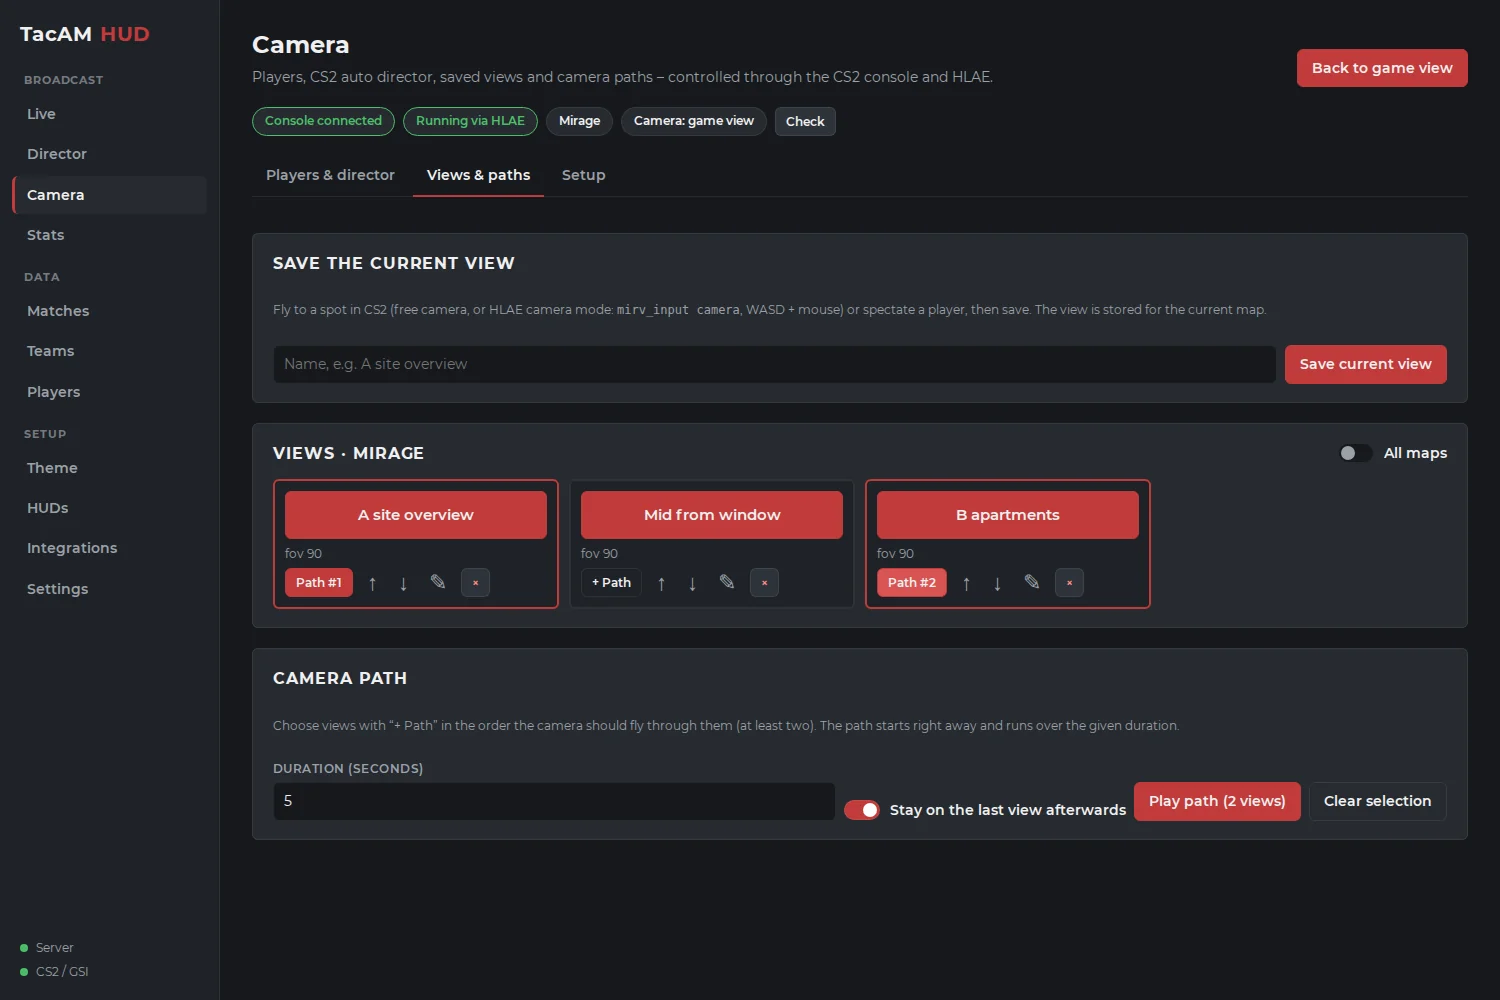
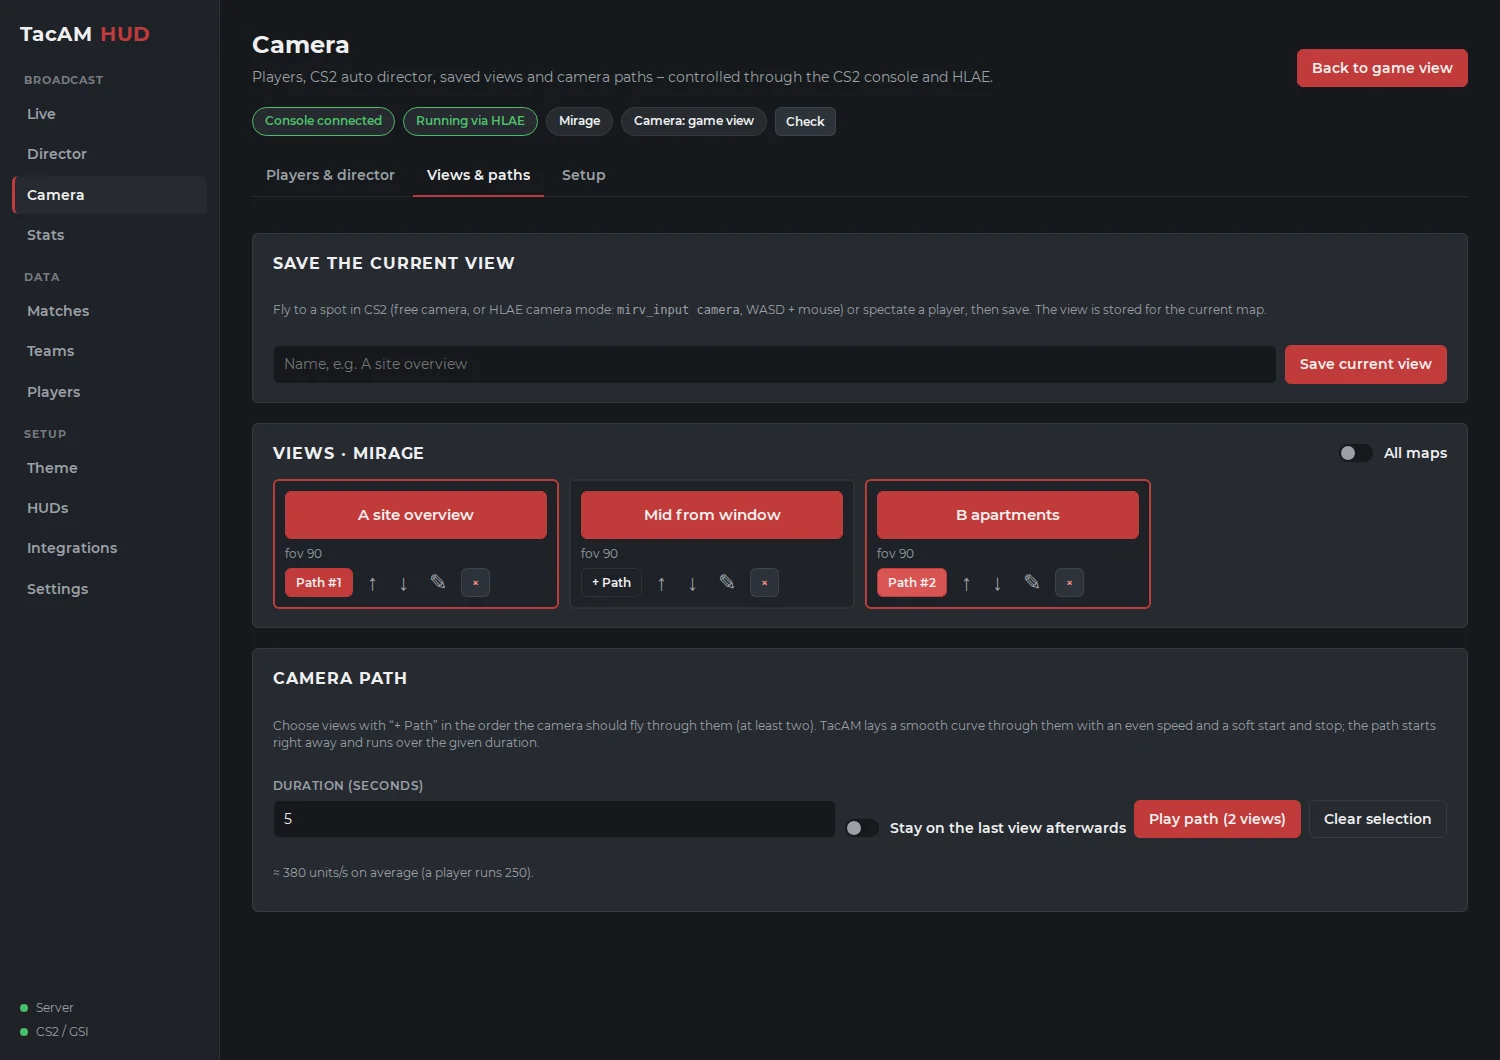
feat(camera): smooth camera paths; HUD reloads only when nobody sees it
- Camera paths: TacAM samples the flight itself - centripetal
  Catmull-Rom spline through the views, time by distance + turning (even
  speed instead of the same time per view), sine ease-in/out, 20
  keyframes per second. Before, a short and a long segment had the same
  time, so the speed jumped at every view, and start/stop were abrupt.
- Path card shows the average speed and suggests a calm duration above
  450 units/s.
- HUD auto-reload after an update waits until the HUD is hidden or no
  game data arrived for 5 s (owner: viewers must not see a reload).

diff --git a/apps/server/src/camera.ts b/apps/server/src/camera.ts
@@ -62,43 +62,90 @@ export function goToCommands(view: View) {
 /** Back to the normal spectator view. */
 export const releaseCommands = ['mirv_campath enabled 0', 'mirv_input end'];
 
-const lerp = (a: number, b: number, t: number) => a + (b - a) * t;
-/** Angle interpolation along the shorter way round. */
-const lerpAngle = (a: number, b: number, t: number) => a + ((((b - a) % 360) + 540) % 360 - 180) * t;
+type Vec = number[]; // x, y, z, pitch, yaw, roll, fov
+const toVec = (v: View): Vec => [v.x, v.y, v.z, v.pitch, v.yaw, v.roll, v.fov];
+const toView = ([x, y, z, pitch, yaw, roll, fov]: Vec): View => ({ x, y, z, pitch, yaw, roll, fov });
+const mix = (a: Vec, b: Vec, wa: number, wb: number) => a.map((value, i) => value * wa + b[i] * wb);
+const distance = (a: Vec, b: Vec) => Math.hypot(a[0] - b[0], a[1] - b[1], a[2] - b[2]);
+/** A degree of turning counts like this many units of travel, so pans get time too. */
+const UNITS_PER_DEGREE = 5;
+const effort = (a: Vec, b: Vec) => distance(a, b) + UNITS_PER_DEGREE * (Math.abs(a[3] - b[3]) + Math.abs(a[4] - b[4]) + Math.abs(a[5] - b[5]));
+/** Keyframes per second: dense enough that HLAE's own spline only bridges tiny steps. */
+const KEYS_PER_SECOND = 20;
 
-function between(a: View, b: View, t: number): View {
-  return {
-    x: lerp(a.x, b.x, t),
-    y: lerp(a.y, b.y, t),
-    z: lerp(a.z, b.z, t),
-    pitch: lerpAngle(a.pitch, b.pitch, t),
-    yaw: lerpAngle(a.yaw, b.yaw, t),
-    roll: lerpAngle(a.roll, b.roll, t),
-    fov: lerp(a.fov, b.fov, t),
-  };
+/** Angles as a continuous sequence (each step the shorter way round), so the spline never spins. */
+function unwrapAngles(views: View[]): Vec[] {
+  const vecs = views.map(toVec);
+  for (let i = 1; i < vecs.length; i++) {
+    for (const k of [3, 4, 5]) vecs[i][k] = vecs[i - 1][k] + ((((vecs[i][k] - vecs[i - 1][k]) % 360) + 540) % 360) - 180;
+  }
+  return vecs;
+}
+
+/**
+ * Centripetal Catmull-Rom (Barry-Goldman) between p1 and p2 at u ∈ [0, 1]: passes through
+ * every view without overshooting or looping when the distances between views differ a lot.
+ */
+function catmullRom(p0: Vec, p1: Vec, p2: Vec, p3: Vec, u: number): Vec {
+  const knot = (a: Vec, b: Vec) => Math.max(Math.sqrt(distance(a, b)), 1e-3);
+  const t0 = 0;
+  const t1 = t0 + knot(p0, p1);
+  const t2 = t1 + knot(p1, p2);
+  const t3 = t2 + knot(p2, p3);
+  const t = t1 + u * (t2 - t1);
+  const lerpAt = (a: Vec, b: Vec, ta: number, tb: number) => mix(a, b, (tb - t) / (tb - ta), (t - ta) / (tb - ta));
+  const a1 = lerpAt(p0, p1, t0, t1);
+  const a2 = lerpAt(p1, p2, t1, t2);
+  const a3 = lerpAt(p2, p3, t2, t3);
+  return lerpAt(lerpAt(a1, a2, t0, t2), lerpAt(a2, a3, t1, t3), t1, t2);
 }
 
 /**
  * Campath XML through the given views in `duration` seconds, starting at time 0
- * (made "now" with `mirv_campath offset current`). HLAE needs at least four
- * keyframes, so short paths get points on the straight line in between.
+ * (made "now" with `mirv_campath offset current`). TacAM samples the curve itself:
+ * a smooth spline through all views, time spread by distance and turning (even
+ * speed instead of the same time per view) and a soft start and stop.
  */
 export function campathXml(views: View[], duration: number, hold: boolean) {
   if (views.length < 2) throw new CameraError('A camera path needs at least two views');
-  // Two views: thirds keep the speed even; otherwise split the longest segment until there are four keys.
-  const base = views.length === 2 ? [views[0], between(views[0], views[1], 1 / 3), between(views[0], views[1], 2 / 3), views[1]] : views;
-  const keys = base.map((view, i) => ({ t: (duration * i) / (base.length - 1), view }));
-  while (keys.length < 4) {
-    let longest = 0;
-    for (let i = 1; i < keys.length - 1; i++) if (keys[i + 1].t - keys[i].t > keys[longest + 1].t - keys[longest].t) longest = i;
-    const a = keys[longest];
-    const b = keys[longest + 1];
-    keys.splice(longest + 1, 0, { t: (a.t + b.t) / 2, view: between(a.view, b.view, 0.5) });
+  const vecs = unwrapAngles(views);
+  // Mirrored end points give the first and last segment a natural tangent.
+  const padded = [mix(vecs[0], vecs[1], 2, -1), ...vecs, mix(vecs.at(-1)!, vecs.at(-2)!, 2, -1)];
+  const at = (segment: number, u: number) => catmullRom(padded[segment], padded[segment + 1], padded[segment + 2], padded[segment + 3], u);
+
+  // Arc-length table over all segments.
+  const STEPS = 64;
+  const table: { s: number; segment: number; u: number }[] = [{ s: 0, segment: 0, u: 0 }];
+  let total = 0;
+  for (let segment = 0; segment < vecs.length - 1; segment++) {
+    let previous = at(segment, 0);
+    for (let step = 1; step <= STEPS; step++) {
+      const u = step / STEPS;
+      const point = at(segment, u);
+      // Identical views: still move through them evenly instead of dividing by zero.
+      total += Math.max(effort(previous, point), 1e-6);
+      table.push({ s: total, segment, u });
+      previous = point;
+    }
   }
-  const points = keys
-    .map(({ t, view: v }) => `    <p t="${fmt(t)}" x="${fmt(v.x)}" y="${fmt(v.y)}" z="${fmt(v.z)}" fov="${fmt(v.fov)}" rx="${fmt(v.roll)}" ry="${fmt(v.pitch)}" rz="${fmt(v.yaw)}"/>`)
-    .join('\n');
-  return `<?xml version="1.0" encoding="utf-8"?>\n<campath${hold ? ' hold=""' : ''}>\n  <points>\n${points}\n  </points>\n</campath>\n`;
+  const locate = (s: number) => {
+    let i = table.findIndex((entry) => entry.s >= s);
+    if (i <= 0) return { segment: 0, u: 0 };
+    const [a, b] = [table[i - 1], table[i]];
+    const f = (s - a.s) / (b.s - a.s);
+    return b.segment === a.segment ? { segment: a.segment, u: a.u + (b.u - a.u) * f } : { segment: b.segment, u: b.u * f };
+  };
+
+  const count = Math.max(8, Math.ceil(duration * KEYS_PER_SECOND));
+  const points: string[] = [];
+  for (let k = 0; k <= count; k++) {
+    const progress = k / count;
+    const eased = (1 - Math.cos(Math.PI * progress)) / 2; // soft start and stop
+    const { segment, u } = k === count ? { segment: vecs.length - 2, u: 1 } : locate(eased * total);
+    const v = toView(at(segment, u));
+    points.push(`    <p t="${fmt(progress * duration)}" x="${fmt(v.x)}" y="${fmt(v.y)}" z="${fmt(v.z)}" fov="${fmt(v.fov)}" rx="${fmt(v.roll)}" ry="${fmt(v.pitch)}" rz="${fmt(v.yaw)}"/>`);
+  }
+  return `<?xml version="1.0" encoding="utf-8"?>\n<campath${hold ? ' hold=""' : ''}>\n  <points>\n${points.join('\n')}\n  </points>\n</campath>\n`;
 }
 
 /** Writes the path file and returns the console commands that play it from now. */

diff --git a/apps/server/src/camera.test.ts b/apps/server/src/camera.test.ts
@@ -60,17 +60,42 @@ describe('camera (HLAE)', () => {
     ]);
   });
 
-  it('builds a campath with at least four keyframes and HLAE angle attributes', () => {
+  const pathPoints = (xml: string) =>
+    [...xml.matchAll(/<p t="([-\d.]+)" x="([-\d.]+)" y="([-\d.]+)" z="([-\d.]+)" fov="([-\d.]+)" rx="([-\d.]+)" ry="([-\d.]+)" rz="([-\d.]+)"/g)].map((m) => {
+      const [t, x, y, z, fov, roll, pitch, yaw] = m.slice(1).map(Number);
+      return { t, x, y, z, fov, roll, pitch, yaw };
+    });
+
+  it('builds a dense, smooth campath with HLAE angle attributes', () => {
     const a = { x: 0, y: 0, z: 0, pitch: 0, yaw: 170, roll: 0, fov: 90 };
     const b = { x: 100, y: 0, z: 50, pitch: 20, yaw: -170, roll: 0, fov: 70 };
     const xml = campathXml([a, b], 6, true);
-    const points = [...xml.matchAll(/<p t="([\d.]+)" x="([-\d.]+)"[^>]*rz="([-\d.]+)"/g)];
-    expect(points.map((p) => Number(p[1]))).toEqual([0, 2, 4, 6]);
+    const points = pathPoints(xml);
+    expect(points).toHaveLength(6 * 20 + 1);
+    expect(points[0]).toMatchObject({ t: 0, x: 0, z: 0, yaw: 170, pitch: 0, fov: 90 });
+    expect(points.at(-1)).toMatchObject({ t: 6, x: 100, z: 50, pitch: 20, fov: 70 });
     expect(xml).toContain('hold=""');
-    // yaw 170 → -170 goes the short way over 180 (not back through 0)
-    expect(Number(points[1][3])).toBeCloseTo(176.667, 2);
-    expect(Number(points[2][3])).toBeCloseTo(183.333, 2);
     expect(xml).toContain('rx="0" ry="0" rz="170"');
+    // yaw 170 → -170 goes the short way over 180 (to 190), not back through 0
+    expect(points.at(-1)!.yaw).toBeCloseTo(190, 3);
+    expect(points[60].yaw).toBeGreaterThan(175);
+    // soft start: the first step is much shorter than a step in the middle
+    expect(points[1].x - points[0].x).toBeLessThan((points[61].x - points[60].x) / 10);
+  });
+
+  it('moves at an even speed through views at uneven distances', () => {
+    const view = (x: number) => ({ x, y: 0, z: 0, pitch: 0, yaw: 0, roll: 0, fov: 90 });
+    const points = pathPoints(campathXml([view(0), view(100), view(1100)], 10, false));
+    const speedAround = (x: number) => {
+      const i = points.findIndex((p) => p.x >= x);
+      const speed = (points[i + 1].x - points[i].x) / (points[i + 1].t - points[i].t);
+      return speed / Math.sin((Math.PI * points[i].t) / 10); // take out the soft start / stop
+    };
+    // without arc-length timing the short first segment would be ten times slower
+    expect(speedAround(600) / speedAround(80)).toBeCloseTo(1, 1);
+    // the path never runs backwards or beyond the last view
+    expect(points.every((p, i) => i === 0 || p.x >= points[i - 1].x - 1e-6)).toBe(true);
+    expect(Math.max(...points.map((p) => p.x))).toBeLessThanOrEqual(1100);
   });
 
   it('writes the path file and plays it from now', async () => {

diff --git a/apps/control/src/pages/CameraPage.tsx b/apps/control/src/pages/CameraPage.tsx
@@ -10,6 +10,10 @@ const TABS = [
   { id: 'setup', label: 'Setup' },
 ] as const;
 
+/** Units per second: above this a path looks rushed / choppy at stream frame rates; CALM is the suggestion. */
+const FAST_SPEED = 450;
+const CALM_SPEED = 300;
+
 const MODE_LABEL: Record<CameraMode, string> = { game: 'game view', free: 'free camera', view: 'saved view', path: 'camera path' };
 
 /**
@@ -129,6 +133,11 @@ export function CameraPage() {
       load();
     }
   };
+  // Straight-line length of the selected path: the speed hint helps choosing a calm duration.
+  const pathViews = pathIds.map((id) => status.shots.find((s) => s.id === id)).filter((s): s is CameraShot => !!s);
+  const pathLength = pathViews.slice(1).reduce((sum, v, i) => sum + Math.hypot(v.x - pathViews[i].x, v.y - pathViews[i].y, v.z - pathViews[i].z), 0);
+  const speed = pathLength / duration;
+  const calmDuration = Math.ceil(pathLength / CALM_SPEED);
   const togglePath = (id: string) => setPathIds(pathIds.includes(id) ? pathIds.filter((x) => x !== id) : [...pathIds, id]);
   const move = async (shot: CameraShot, delta: number) => {
     const list = [...status.shots];
@@ -277,8 +286,8 @@ export function CameraPage() {
 
           <Card title="Camera path">
             <p className="muted small">
-              Choose views with “+ Path” in the order the camera should fly through them (at least two). The path starts right away and runs over the given
-              duration.
+              Choose views with “+ Path” in the order the camera should fly through them (at least two). TacAM lays a smooth curve through them with an even
+              speed and a soft start and stop; the path starts right away and runs over the given duration.
             </p>
             <div className="row wrap">
               <Field label="Duration (seconds)">
@@ -292,6 +301,21 @@ export function CameraPage() {
                 Clear selection
               </button>
             </div>
+            {pathViews.length >= 2 && (
+              <p className={`small ${speed > FAST_SPEED ? 'camera_speed is-fast' : 'muted'}`}>
+                ≈ {Math.round(speed)} units/s on average (a player runs 250).
+                {speed > FAST_SPEED && (
+                  <>
+                    {' '}
+                    Fast flights look choppy in the stream –{' '}
+                    <button className="link_button" onClick={() => setDuration(calmDuration)}>
+                      use {calmDuration} s
+                    </button>{' '}
+                    for a calm flight.
+                  </>
+                )}
+              </p>
+            )}
           </Card>
         </>
       )}

diff --git a/apps/hud/src/state/store.ts b/apps/hud/src/state/store.ts
@@ -113,12 +113,22 @@ async function bootstrap() {
  */
 const scriptUrls = (doc: Document) =>
   [...doc.querySelectorAll<HTMLScriptElement>('script[type="module"][src]')].map((s) => new URL(s.getAttribute('src')!, window.location.href).pathname).sort().join(' ');
+// Viewers must not see the reload: wait until the HUD is hidden or no game data
+// came in for a while (map change, main menu, CS2 not started yet).
+let lastUpdateAt = 0;
+let reloadTimer: ReturnType<typeof setInterval> | null = null;
+const reloadUnseen = () => {
+  if (reloadTimer) return;
+  reloadTimer = setInterval(() => {
+    if (!state.config.visibility.hud || Date.now() - lastUpdateAt > 5000) window.location.reload();
+  }, 1000);
+};
 async function reloadIfOutdated() {
   try {
     const res = await fetch(window.location.pathname, { cache: 'no-store' });
     if (!res.ok) return;
     const served = scriptUrls(new DOMParser().parseFromString(await res.text(), 'text/html'));
-    if (served && served !== scriptUrls(document)) window.location.reload();
+    if (served && served !== scriptUrls(document)) reloadUnseen();
   } catch {
     // server restarting – the next reconnect checks again
   }
@@ -139,6 +149,7 @@ socket.on('update', ({ raw, teams, demo, flip, rules }) => {
   GSI.overtimeMR = rules.overtimeMR;
   GSI.teams.left = teams.left;
   GSI.teams.right = teams.right;
+  lastUpdateAt = Date.now();
   const game = GSI.digest(raw as CSGORaw);
   if (game) set({ game, demo, flip });
 });

diff --git a/apps/control/src/styles.css b/apps/control/src/styles.css
@@ -1222,3 +1222,16 @@ input.grow {
     grid-template-columns: 1fr;
   }
 }
+
+.camera_speed.is-fast {
+  color: var(--warn);
+}
+.link_button {
+  padding: 0;
+  border: 0;
+  background: none;
+  color: inherit;
+  font: inherit;
+  text-decoration: underline;
+  cursor: pointer;
+}

diff --git a/docs/features.md b/docs/features.md
@@ -56,7 +56,7 @@ Page **Camera** (Broadcast), `apps/server/src/camera.ts`, needs CS2 started via 
 - **Is HLAE running?** `mirv_input` without options prints HLAE's usage; plain CS2 answers "Unknown command". Shown as "Running via HLAE" (button *Check*).
 - **Save the current view:** `mirv_campath print` ends with `Current ( x y z ) fov ( pitch yaw roll ): ( … )`; position, angles and FOV are stored as a `CameraShot` in `settings.cameraShots` together with the current map (GSI). The view can come from HLAE's free camera (`mirv_input camera`, WASD + mouse) or any spectator view.
 - **Jump to a view:** `mirv_campath enabled 0`, `mirv_input camera`, `mirv_input position x y z`, `mirv_input angles <pitch> <yaw> <roll>` (HLAE's usage text says `<yPitch> <xRoll> <zYaw>`, but the code takes pitch, yaw, roll – the usage order tilted the camera sideways), `mirv_input fov <fov>`.
-- **Camera path:** the chosen views (in order) are written as a campath XML (`<dataDir>/campaths/tacam-path.xml`; points with `t`, `x/y/z`, `fov`, `rx`=roll, `ry`=pitch, `rz`=yaw) over the given duration – HLAE needs at least four keyframes, so two views get points at the thirds, three views a midpoint. Then `mirv_input end`, `mirv_campath clear`, `mirv_campath load "<file>"`, `mirv_campath hold 0|1`, `mirv_campath offset current` (start now, also live) and `mirv_campath enabled 1`. *Hold* keeps the last view afterwards.
+- **Camera path:** the chosen views (in order) are written as a campath XML (`<dataDir>/campaths/tacam-path.xml`; points with `t`, `x/y/z`, `fov`, `rx`=roll, `ry`=pitch, `rz`=yaw) over the given duration. TacAM samples the flight itself (`campathXml`): a centripetal Catmull-Rom spline through all views (no overshoot or loops when the distances differ a lot; angles unwrapped the short way round), time spread by "effort" – distance plus 5 units per degree of turning, so the speed stays even instead of the same time per view and pure pans get time too – and a sine ease-in/out for a soft start and stop. 20 keyframes per second, so HLAE's own cubic spline only bridges tiny steps. The path card shows the average speed (a player runs 250 units/s) and above 450 units/s suggests a duration for ~300 units/s – fast flights judder at stream frame rates. Then `mirv_input end`, `mirv_campath clear`, `mirv_campath load "<file>"`, `mirv_campath hold 0|1`, `mirv_campath offset current` (start now, also live) and `mirv_campath enabled 1`. *Hold* (off by default) keeps the last view afterwards; without it CS2 shows the spectated player again.
 - **Back to game view:** `mirv_campath enabled 0`, `mirv_input end`. - **Free camera on map / demo load** (`settings.freeCameraOnMapLoad`, default on, toggle on the Camera page): when GSI reports a map after the main menu or a different map, TacAM ends camera/path and then enters `mirv_input camera` – HLAE only takes over the current game view when camera mode was off for at least one frame (`m_InputOn` in MirvInput.cpp), so both steps are sent 300 ms apart. Switched off, it only goes back to the game view. Not on the first GSI packet after TacAM starts, so a running broadcast keeps its view. Without this, a camera or held path from before stayed at its old position in the new map – often inside a wall (black screen). Button *Free camera from the current view* and action `camera-free` do the same by hand.
 - **Console commands on demo / map load** (`settings.mapLoadCommands` / `menuCommands`, card at the end of the Camera page): one command per line, `//` comments. The load list runs when GSI reports a loaded map (before the free camera), the menu list when GSI no longer reports a map (main menu). Defaults: `cl_draw_only_deathnotices 1` + `engine_no_focus_sleep 0` on load, `cl_draw_only_deathnotices 0` + `engine_no_focus_sleep 60` in the menu. `cl_draw_only_deathnotices 1` keeps the CS2 kill feed – with the TacAM kill feed visible as well, kills show twice. Toggles such as `ignoremsg` / `ignorerad` flip on every run and do not belong in the lists.
 - **HLAE keys** (shown on the Camera page, from MirvInput.cpp): WASD move, R/F up/down, Z/X roll, Page Up/Page Down and mouse wheel FOV, Numpad +/− speed, Home/Numpad 5 reset (FOV 90°, no tilt), Esc end. A key that HLAE saw pressed but not released (e.g. tabbing out) keeps changing the view – a growing FOV shrinks the picture to a dot.
@@ -77,7 +77,7 @@ The sidebar groups the pages into **Broadcast** (Live, Director, Stats), **Data*
 
 ## HUD updates in OBS
 
-OBS keeps a browser source loaded across TacAM updates: the socket reconnects, but the old HUD code would keep running and miss new features (v0.1.19: the camera mode). On every reconnect the HUD (`apps/hud/src/state/store.ts`) fetches its `index.html` and compares the hashed bundle URLs with its own; if they differ it reloads itself. The same version never reloads. *Reload all HUDs* (`Alt+F`) still works by hand.
+OBS keeps a browser source loaded across TacAM updates: the socket reconnects, but the old HUD code would keep running and miss new features (v0.1.19: the camera mode). On every reconnect the HUD (`apps/hud/src/state/store.ts`) fetches its `index.html` and compares the hashed bundle URLs with its own; if they differ it reloads itself – but only when viewers cannot see it: while the HUD is hidden or after 5 s without game data (map change, main menu, CS2 not running). During a live round it waits. The same version never reloads. *Reload all HUDs* (`Alt+F`) still works by hand.
 
 ## HUD configuration ("panel")
 

diff --git a/docs/STATUS.md b/docs/STATUS.md
@@ -12,7 +12,7 @@ Hand-over state for the next session. Latest release: **v0.1.19** (camera tabs, 
 - **Free camera on demo / map load (v0.1.18):** TacAM ends camera/path and enters `mirv_input camera` from the current game view (toggle on the Camera page, default on), plus a key overview. Owner's report "picture shrinks to a white dot after a disconnect" = HLAE FOV growing to 180° (Page Down / Numpad 1 or wheel seen as held) – Home resets it; entering the free camera fresh resets it too.
 - **Console commands on demo / map load and back in the menu – released in v0.1.19** (Camera page, last card; defaults `cl_draw_only_deathnotices 1/0`, `engine_no_focus_sleep 0/60`). Tested against a fake console. Open question: CS2 kill feed or TacAM kill feed in the stream (both visible = duplicate).
 - **Next (owner's wish): save camera paths** – store a path (chosen views in order, duration, hold) under a name per map, so it can be played during a broadcast with one click and as a Stream Deck / Companion action (`camera-path-<id>`), maybe also from signals (e.g. round start → overview path).
-- **Camera page in tabs, camera mode, CS2 auto director – released in v0.1.19** (owner's wishes): tabs *Players & director* / *Views & paths* / *Setup*; during free camera / view / path the HUD shows no focused player; button + action for `spec_autodirector`. Owner confirmed: `spec_autodirector 1` works in a demo via the console. Owner's v0.1.19 test showed the player during a path: the OBS / overlay HUD still ran the v0.1.18 code (not reloaded after the update) – reproduced the path locally, works with a fresh HUD. Fix (not released yet): the HUD reloads itself when the server ships a new HUD build; *Stay on the last view* now defaults to off (owner expected the camera to go back to the player). Owner to test again after the next release. Kill feed: owner uses the CS2 one (TacAM kill feed stays off by default).
+- **Camera page in tabs, camera mode, CS2 auto director – released in v0.1.19** (owner's wishes): tabs *Players & director* / *Views & paths* / *Setup*; during free camera / view / path the HUD shows no focused player; button + action for `spec_autodirector`. Owner confirmed: `spec_autodirector 1` works in a demo via the console. Owner's v0.1.19 test showed the player during a path: the OBS / overlay HUD still ran the v0.1.18 code (not reloaded after the update) – reproduced the path locally, works with a fresh HUD. Fix (not released yet): the HUD reloads itself when the server ships a new HUD build, but only unseen (HUD hidden or 5 s without game data – owner: viewers must not see a reload); *Stay on the last view* now defaults to off (owner expected the camera to go back to the player). Smoother paths (owner's report): spline through the views, even speed, soft start/stop, speed hint. Owner to test again after the next release. Kill feed: owner uses the CS2 one (TacAM kill feed stays off by default).
 - **Later: own auto observer (#17)** – smarter than CS2's auto director – on the same console bridge (switch to the player in the duel / with the bomb / last alive, with a minimum dwell time, manual takeover pauses it).
 - Other ideas: Stream Deck / shortcut actions per saved view, signals → camera (e.g. round start → overview path).
 
